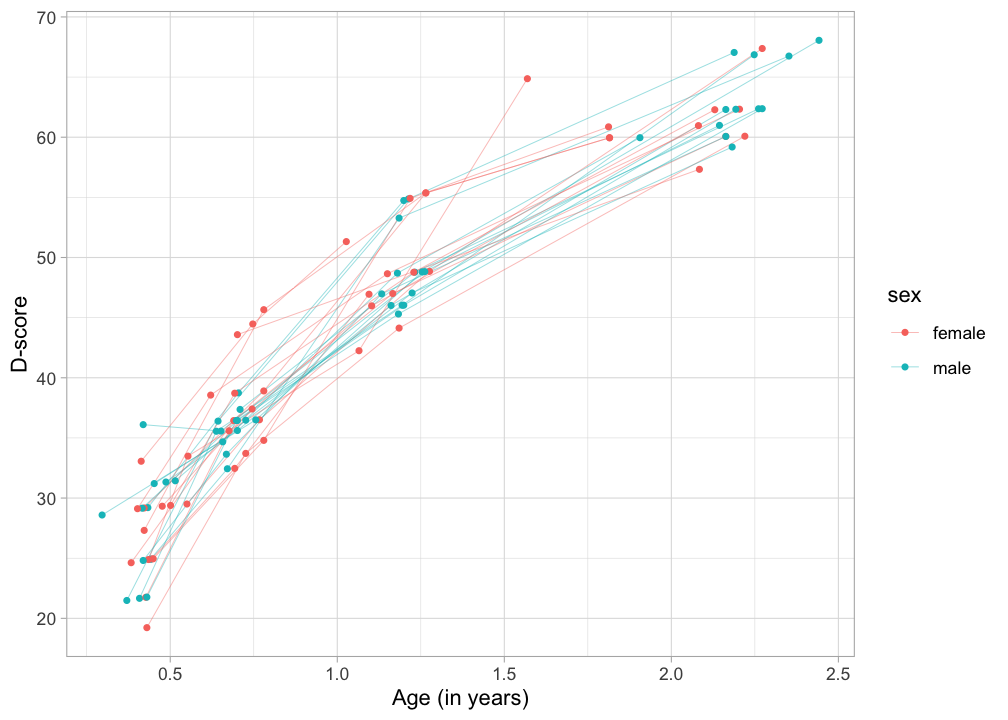
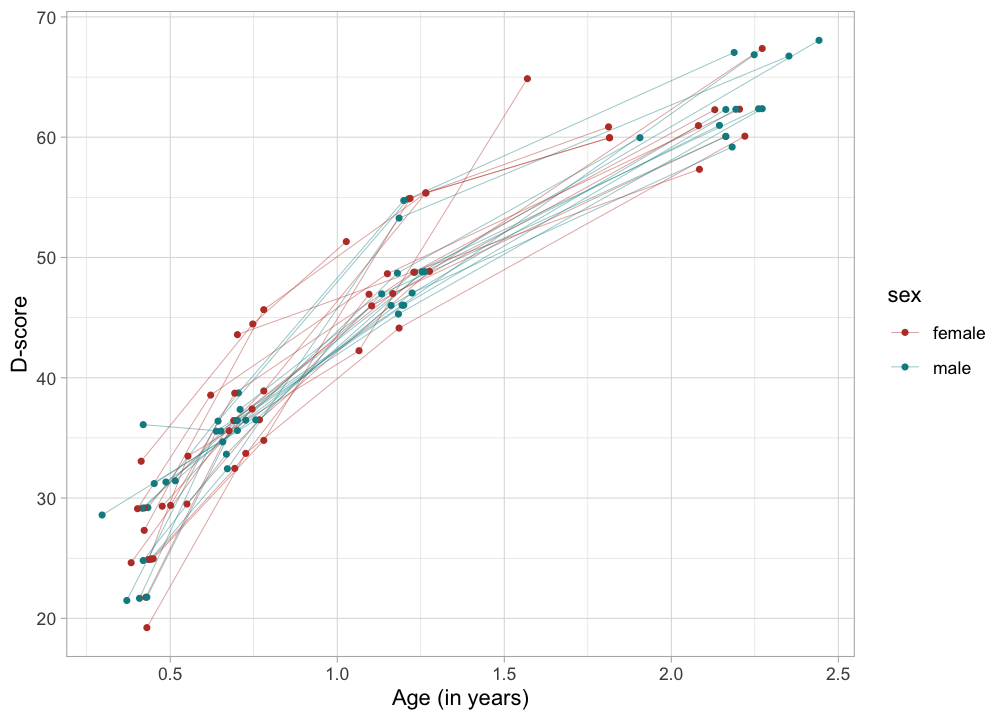
Update README

diff --git a/README.md b/README.md
@@ -126,7 +126,7 @@ ggplot(md, aes(x = a, y = d, group = id, color = sex)) +
   ylab("D-score") +
   geom_line(lwd = 0.1) +
   geom_point(size = 1) +
-  scale_fill_discrete(palette = "Dark2") +
+  scale_colour_hue(l = 45) +
   theme_light()
 ```
 
@@ -145,11 +145,110 @@ ggplot(md, aes(x = a, y = daz, group = id, color = sex)) +
   coord_cartesian(ylim = c(-4, 4)) +
   geom_line(lwd = 0.1) +
   geom_point(size = 1) +
-  scale_fill_discrete(palette = "Dark2") +
+  scale_colour_hue(l = 45) +
   xlab("Age (in years)") +
   ylab("DAZ")
 ```
 
 <img src="man/figures/README-graphDAZ-1.png" width="100%" />
 
-### Tools for item names
+Note that the D-scores and DAZ are a little lower than average. The
+explanation here is that these all children are born preterm.
+
+### Tools for mapping item names
+
+The `dscore()` function assumes that the item names follow the GSED
+naming convention, a nine-position word that identifies the instrument,
+the domain, the administration mode and the item number. You may
+decompose an item names into these components, as follows:
+
+``` r
+decompose_itemnames(items)
+#>   instrument domain mode number
+#> 1        ddi     gm    d    053
+#> 2        ddi     gm    d    056
+#> 3        ddi     cm    m    030
+#> 4        ddi     fm    d    002
+#> 5        ddi     fm    d    003
+#> 6        ddi     fm    m    004
+#> 7        ddi     cm    m    031
+```
+
+which gives four components of the seven items.
+
+In practice, you will spend most of your time in renaming your own item
+names according to the GSED convention. In order to ease this process,
+the `dscore` package offers several functions that can help.
+
+First of all, the measurement instrument needs to be one of the
+instruments supported by the `dscore` package. Here’s the table of
+instruments that are currently defined in the package:
+
+| Code | Items | Instrument |
+| ---- | ----: | ---------- |
+| aqi  |   230 |            |
+| bar  |    22 |            |
+| bat  |   137 |            |
+| by1  |   156 |            |
+| by2  |   121 |            |
+| by3  |   320 |            |
+| cro  |   149 |            |
+| ddi  |    77 |            |
+| den  |   111 |            |
+| dmc  |    66 |            |
+| gri  |   312 |            |
+| hyp  |     5 |            |
+| iyo  |    90 |            |
+| kdi  |    69 |            |
+| mac  |     6 |            |
+| mds  |     6 |            |
+| mdt  |   136 |            |
+| peg  |     2 |            |
+| pri  |    63 |            |
+| sbi  |    33 |            |
+| sgr  |    58 |            |
+| tep  |    61 |            |
+| vin  |    50 |            |
+
+Not every defined instruments can be used to calculate the D-score.
+There are currently three keys in the software: `dutch`, `gcdg` and
+`gsed`. Different keys cover different sets of instruments. The table
+below displays the number of items per instrument under each of the
+three keys.
+
+| Code | Items | dutch | gcdg | gsed |
+| ---- | ----: | ----: | ---: | ---: |
+| aqi  |   230 |       |   29 |   17 |
+| bar  |    22 |       |   15 |   13 |
+| bat  |   137 |       |      |      |
+| by1  |   156 |       |   85 |   76 |
+| by2  |   121 |       |   16 |   16 |
+| by3  |   320 |       |  105 |   67 |
+| cro  |   149 |       |      |   62 |
+| ddi  |    77 |    76 |   65 |   64 |
+| den  |   111 |       |   67 |   50 |
+| dmc  |    66 |       |      |   43 |
+| gri  |   312 |       |  104 |   93 |
+| hyp  |     5 |       |      |      |
+| iyo  |    90 |       |      |   55 |
+| kdi  |    69 |       |      |      |
+| mac  |     6 |       |    3 |    3 |
+| mds  |     6 |       |      |    1 |
+| mdt  |   136 |       |      |  126 |
+| peg  |     2 |       |    1 |    1 |
+| pri  |    63 |       |      |      |
+| sbi  |    33 |       |    6 |    1 |
+| sgr  |    58 |       |   19 |   19 |
+| tep  |    61 |       |   33 |   31 |
+| vin  |    50 |       |   17 |   17 |
+|      |       |       |      |      |
+| ALL  |  2280 |    76 |  565 |  807 |
+
+In practice, the means that key choice is limited by the available
+instrument. For example, if you have collected `cro`, then the only
+choice is the `gsed` key, but for `gri`, we may choose between `gcdg`
+and `gsed`. The actual choice will depend on the goals of your analysis.
+If you want to compare to other D-scores calculated under key `gcdg`,
+then pick the `gcdg` key. If that is not the case, then `gsed` is the
+better choice since it account for a wider variety of instruments. By
+default, `gsed` is chosen.
